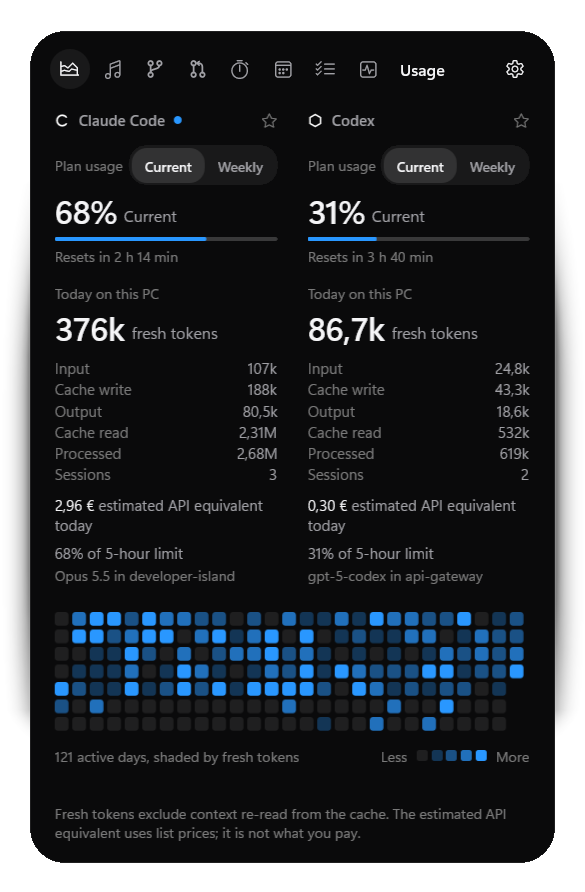
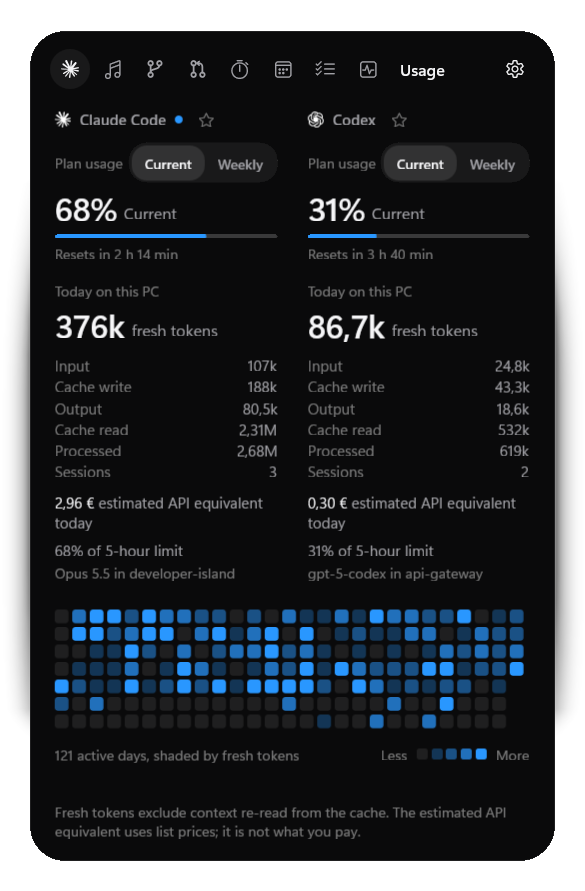
docs: document iteration 4 behavior, privacy marks and limits
State priority and the content/display split, camera and microphone
detection, width-stable compact values, hardware levels, Claude plan
usage being terminal-only, and why fan RPM is unavailable here.

diff --git a/README.md b/README.md
@@ -21,16 +21,17 @@ Developer Island is a small capsule at the top of your screen. It shows your AI 
   - A **live activity** (medium state) appears for song changes, focus sessions, AI events and upcoming meetings, or while you hover.
   - The **expanded** island opens on click.
 - **Spring motion from the anchor.** The capsule morphs on the GPU compositor and grows away from the edge it rests on. Every animation can be interrupted and respects Windows "Animation effects".
-- **Your module, in the capsule.** Star any module in the expanded island and the compact island features it: "Claude 68% · €2.96", the song, the focus countdown, "CPU 38% · 54°", "14:30 Robotics". Several favorites take turns every 7 seconds; without favorites the module you opened last is shown. Time-critical signals (focus, next event, system alert, failing CI) stay in front.
+- **Your module, in the capsule.** Star any module in the expanded island and the compact island features it: "Claude 1.12M · 72%", the song, the focus countdown, "CPU 38% · 54°", "14:30 Robotics". Several favorites take turns every 7 seconds; without favorites the module you opened last is shown, and hovering or opening the island shows that module too (never a fixed default). Time-critical signals (focus, next event, system alert, failing CI) stay in front. Ticking values keep their width ("CPU 9%" and "CPU 100%" take the same room), so the capsule does not jitter; long song titles end in an ellipsis.
+- **Camera and microphone.** While any app uses the microphone or the camera, a small orange microphone or green camera mark appears in every state: compact, live activity, expanded and the notch. It is a global signal, not a module, and never opens the island.
 - **Hover that behaves.** A peek opens after a short, deliberate hover (about 280 ms). Hover is judged against the visible capsule, so it never sticks. A capsule that just grew under a resting mouse does not take your next click, and any click outside the expanded island closes it.
-- **Auto-hide in apps.** A top-center island covers tabs and title bars. While an app you list is in front (Chrome, Edge and Firefox by default, or any app you add), the island retracts into a small notch in the screen edge (48 × 5 px). Hover it for 450 ms or click it to open. Choose per app, hide completely instead, or retract only while the app is maximized.
+- **Auto-hide in apps.** A top-center island covers tabs and title bars. While an app you list is in front (Chrome, Edge and Firefox by default, or any app you add), the island retracts into a small notch in the screen edge (48 × 5 px). Hover it for 450 ms or click it to open. Choose per app, hide completely instead, or retract only while the app is maximized. This works the same whatever the island shows (Claude, Codex, Music, Focus, System, Calendar, or the open island). While a camera or microphone is in use, "hide completely" keeps the notch instead (one fixed, slightly taller size) so the mark stays visible.
 - **Anywhere you want it.** It sits at Top Center by default. There are five more anchors, or you can drag it anywhere; near an anchor it snaps into place. The monitor, anchor and offset are saved, and the island falls back to the primary monitor when that display is disconnected.
 - **Out of the way.** The window region follows the capsule, leaving the rest of the desktop clickable. Hovering or dragging does not activate the island. It steps aside while a fullscreen app is on its monitor.
 - **Keyboard.** **Ctrl + Alt + Space** opens or closes the island from anywhere; three other combinations are available if another app already uses it. Esc closes the island, and focus returns to where you were. Tab and the arrow keys move through the expanded view.
 - **Tray and autostart.** The notification-area menu offers Show, Hide, Start Focus, New Task, Settings and Quit. Start with Windows is a native per-user setting, with no scripts.
 
 <p align="center">
-  <img src="docs/assets/compact-featured-claude.png" alt="Compact island featuring Claude: plan usage and today's estimated API equivalent" width="440">
+  <img src="docs/assets/compact-featured-claude.png" alt="Compact island featuring Claude: today's fresh tokens and plan usage" width="440">
   <br>
   <img src="docs/assets/notch.png" alt="The notch: a small dark tab in the top screen edge" width="120">
 </p>
@@ -58,11 +59,11 @@ Tokens are counted the way the providers bill them:
 
 Each provider shows its **plan usage** first, when it is known:
 
-- **Claude Code:** the current (5-hour) and weekly (7-day) windows with their reset times, as Claude Code reports them to its status line. Connect it once in Settings, Modules, "Claude plan usage": Developer Island becomes Claude Code's status line command, receives only those two percentages and reset times, shows nothing in the terminal, and leaves an existing status line of yours alone. Plan usage exists for Claude subscriptions only.
+- **Claude Code:** the current (5-hour) and weekly (7-day) windows with their reset times, as Claude Code reports them to its status line. Connect it once in Settings, Modules, "Claude plan usage": Developer Island becomes Claude Code's status line command, receives only those two percentages and reset times, shows nothing in the terminal, and leaves an existing status line of yours alone. Plan usage exists for Claude subscriptions only. Claude Code runs its status line only in terminal sessions, after a reply; the VS Code extension does not run it. Settings therefore tells "connected" apart from "receiving plan usage", and the island shows when the last figure was measured.
 - **Codex:** the 5-hour and weekly windows from its own logs.
 - A **Current / Weekly** switch picks the window. Without data the block says "Unavailable" and why. Percentages are never computed from token counts.
 
-Below it, **Today on this PC** keeps the full local breakdown. The compact island shows plan usage when known, otherwise **fresh** tokens, plus today's estimated API equivalent; the expanded view shows the full breakdown, and a tooltip on the figure lists every exact count. Cache reads repeat the whole conversation context on every turn, so in long agent sessions they are often 80–90 % of processed tokens; counting them as "usage" made earlier numbers look inflated. The usage graph is shaded by fresh tokens too.
+Below it, **Today on this PC** keeps the full local breakdown. The compact island shows today's **fresh** tokens and the plan percentage when known ("Claude 1.12M · 72%", or "Claude 1.12M tokens"); the estimated API equivalent appears only in the expanded view. The expanded view shows the full breakdown, and a tooltip on the figure lists every exact count. Hovering a day in the usage graph shows a small tooltip with its date, fresh tokens, sessions and API equivalent. Cache reads repeat the whole conversation context on every turn, so in long agent sessions they are often 80–90 % of processed tokens; counting them as "usage" made earlier numbers look inflated. The usage graph is shaded by fresh tokens too.
 
 The **estimated API equivalent today** in euros prices every category at public list prices, including cache writes (1.25× or 2× input) and cache reads (0.1× input unless listed). If you use a subscription, it is not what you pay. Models without a known list price are reported as "partly priced" instead of being guessed. Codex also shows its latest primary rate-limit usage (usually a 5-hour window), with a live activity at 50, 75 and 90 %.
 
@@ -112,10 +113,10 @@ A small local to-do list. Type and press Enter to add a task; click the circle t
 ### System
 
 <p align="center">
-  <img src="docs/assets/expanded-system.png" alt="System module: CPU, memory and GPU with 60-second graphs, battery, a storage temperature and a fan" width="480">
+  <img src="docs/assets/expanded-system.png" alt="System module (demo data): CPU, memory and GPU with 60-second graphs colored by load, battery, a storage temperature and a fan" width="480">
 </p>
 
-CPU, memory, GPU and battery, each with its last 60 seconds as a quiet graph, plus the temperatures and fans this device exposes (CPU and GPU temperatures in their tiles, storage, board and ACPI thermal zones and fan speeds as rows below). Hardware that does not exist, or that Windows does not expose without administrator rights, is not shown at all; the tiles re-flow. Readings come from Windows and [LibreHardwareMonitor](https://github.com/LibreHardwareMonitor/LibreHardwareMonitor), read-only. Manual fan control is not offered: no supported interface guarantees that fans return to firmware control if the app crashes. Run `DeveloperIsland.exe --system-report` to see what your device exposes.
+CPU, memory, GPU and battery, each with its last 60 seconds as a quiet graph (green, orange or red by load: CPU and GPU from 60 % and 85 %, memory from 75 % and 90 %, averaged over five seconds), plus the temperatures and fans this device exposes (CPU and GPU temperatures in their tiles, storage, board and ACPI thermal zones and fan speeds as rows below; a temperature turns orange or red only above its own threshold, for example CPU 85 / 95 °C, SSD 60 / 70 °C). Fan speeds appear only when the hardware reports them: many laptops, including the development machine, expose no fan RPM to Windows applications, and no value is ever estimated. Hardware that does not exist, or that Windows does not expose without administrator rights, is not shown at all; the tiles re-flow. Readings come from Windows and [LibreHardwareMonitor](https://github.com/LibreHardwareMonitor/LibreHardwareMonitor), read-only. Manual fan control is not offered: no supported interface guarantees that fans return to firmware control if the app crashes. Run `DeveloperIsland.exe --system-report` to see what your device exposes.
 
 The compact island speaks up only when something needs attention: a battery at 20 % or less that is not charging, or a CPU busy above 85 % for 15 seconds. Featured, it shows "CPU 38% · 54°" (or GPU or memory, whatever exists).
 
@@ -143,6 +144,7 @@ Changes apply immediately.
 - The app reads local JSONL files that can also contain conversation content, but extracts only usage and session metadata: token counts, model, timestamps, session IDs and the working directory. It does not retain, display, log or upload prompt, message or code content.
 - The local database (`%LOCALAPPDATA%\DeveloperIsland\usage.db`) contains token counts, model names, timestamps, session IDs, project folder names, daily totals and focus sessions.
 - `settings.json` holds your settings, including repository paths, favorites and the auto-hide app list; `tasks.json` holds your tasks; `ui-state.json` remembers the module you opened last. Private calendar links are kept in Windows Credential Manager and appear in settings only as "Google Calendar" or similar. Calendar event titles are kept in memory only.
+- Camera and microphone marks read Windows' own record of which apps use those devices (the capability consent store in the registry, as Windows' privacy indicator does). Only "in use or not" is kept; app names are never stored, shown or logged, and nothing is recorded.
 - `claude-plan.json` holds the last Claude plan percentages and reset times that Claude Code handed over, nothing else from its status line input (no paths, model, cost or session).
 - Logs (`%LOCALAPPDATA%\DeveloperIsland\logs`) contain app events and error types, never content, repository names, task titles, event titles or calendar links. They are kept for 7 days.
 - The API equivalent uses a static price catalog and exchange rate. You can adjust both in `%LOCALAPPDATA%\DeveloperIsland\pricing.json`, for example:
@@ -267,7 +269,7 @@ Data flows one way: **Provider, then State, then ViewModel, then View.** Provide
 - Code-signed installer, a winget package and in-app update notifications
 - Account-based calendars (Outlook, Google) through the calendar provider interface
 - More AI tools through the provider interface (Gemini CLI, GitHub Copilot usage)
-- Opt-in plan-limit percentages for Claude Code, if they become available locally
+- Claude plan usage from the VS Code extension, if Claude Code offers a status line there
 - A separate layout per display, and ARM64 release builds
 
 ## Acknowledgements
@@ -278,4 +280,4 @@ Design principles:
 - [Taste Skill](https://github.com/Leonxlnx/taste-skill)
 - [Vercel Web Interface Guidelines](https://github.com/vercel-labs/web-interface-guidelines)
 
-Icons are Segoe Fluent Icons, plus drawn Git and pull-request marks. Claude and Codex are shown with simple generic marks (an open "C" ring and a hexagon), not their logos. Hardware sensors use [LibreHardwareMonitor](https://github.com/LibreHardwareMonitor/LibreHardwareMonitor) (MPL-2.0). Built with the Windows App SDK and WinUI 3.
+Icons are Segoe Fluent Icons, plus drawn Git and pull-request marks. Claude Code and Codex are shown with the Claude and OpenAI marks (paths from [Simple Icons](https://simpleicons.org), CC0), drawn monochrome. Claude is a trademark of Anthropic and OpenAI of OpenAI; Developer Island is not affiliated with or endorsed by either. Hardware sensors use [LibreHardwareMonitor](https://github.com/LibreHardwareMonitor/LibreHardwareMonitor) (MPL-2.0). Built with the Windows App SDK and WinUI 3.

diff --git a/docs/STATUS.md b/docs/STATUS.md
@@ -6,20 +6,23 @@ What was verified, how, and what is still open. Updated 2026-10-01.
 
 | Area | How |
 |---|---|
-| Unit and integration tests | 294 tests pass (`dotnet test`), including a real `git` repository, a Windows Credential Manager round trip, ICS recurrence across daylight saving and the island state machine's transitions. |
+| Unit and integration tests | 356 tests pass (`dotnet test`), including a real `git` repository, a Windows Credential Manager round trip, ICS recurrence across daylight saving and the island state machine's transitions. |
 | Release build | `tools/build-release.ps1` builds tests, publish, portable zip and installer in a shell whose PATH has no .NET 10 SDK (the script finds it). |
-| Every island state | Rendered offscreen with `--demo --snapshot` (35 renders) and compared with the previous build: compact, peek, activities, notch, each expanded module, empty and error states, each featured module, favorite rotation, every Settings page. |
+| Every island state | Rendered offscreen with `--demo --snapshot` (41 renders) and compared with the previous build: compact, peek, activities, notch, each expanded module, the usage-graph tooltip, empty and error states, each featured module, favorite rotation, camera and microphone marks in compact, notch, activity and expanded, every Settings page. |
+| Camera and microphone | `--system-report` reads the consent store on this machine (both "not in use" at the time). The in-use rule and the island behavior (marks in every state, notch instead of hide, never opening) are covered by tests. |
 | Claude plan bridge | `--claude-statusline` fed with a sample in the documented format: exit 0, no output, only percentages and reset times stored (no path, model, cost or session). |
 | Hardware detection | `--system-report` on a Lenovo laptop without admin rights: CPU, memory, Intel GPU load, battery and two ACPI thermal zones detected; no CPU temperature, no fans, so those are hidden. |
-| Auto-hide | Earlier iteration: Chrome maximized in front retracted the island live; foreground changes are now debounced. |
+| Auto-hide | Earlier iteration: Chrome maximized in front retracted the island live; foreground changes are now debounced. One rule for every module: tests cover Claude, Codex, Music, Focus, System, Calendar and the open island with Chrome and VS Code in front. |
 | Performance | See [PERFORMANCE.md](PERFORMANCE.md). |
 
 ## Not verified on real hardware or accounts
 
-- Claude plan usage end to end with a Claude subscription: the status line format comes from Claude Code's built-in documentation and the bridge is tested with a sample, but no live session was connected during development (connecting edits the user's Claude Code settings).
+- Claude plan usage end to end with a Claude subscription in a terminal session. On the development machine the bridge is connected, but Claude Code was used through the VS Code extension, which does not run status lines, so no plan data arrived (Settings now says so instead of only "Connected").
+- Camera and microphone marks with a device actually in use (requires starting a call or recording; the change notification and the in-use rule are implemented and tested separately).
 - GitHub with the GitHub CLI signed in (only the JSON parsing is tested; the CLI is not installed on the development machine).
 - A live calendar link (parsing and storage are tested with samples).
 - GPU temperatures, storage temperatures and fans (the development machine exposes none without admin rights).
+- Fan RPM is not available on the development machine (Lenovo 21KH): LibreHardwareMonitor finds no fan or controller sensors (the Lenovo board "LNVNB161216" has no supported embedded controller or Super I/O), Windows exposes the ACPI fan device without a speed (`Win32_Fan` is empty, no fan performance counter), and Lenovo's WMI offers only BIOS settings. The fan row stays hidden; no value is estimated.
 - Hover and click timing by hand: input was never simulated; behavior is covered by state machine tests.
 
 ## Known limitations
@@ -27,6 +30,7 @@ What was verified, how, and what is still open. Updated 2026-10-01.
 - Manual fan control is not offered: no supported interface guarantees that fans return to firmware control if the app crashes or is killed. Monitoring only.
 - CPU package temperatures need LibreHardwareMonitor's driver and administrator rights; without them the CPU tile shows its load only.
 - ACPI thermal zones are real sensors, but Windows does not say what they measure, so they are labelled "Thermal zone" and not attributed to the CPU.
-- Plan usage updates when Claude Code sends a status line update (after replies), not on its own; after a window resets, the island shows no percentage until the next update.
+- Plan usage updates when Claude Code sends a status line update (after replies in a terminal session), not on its own and not from the VS Code extension; after a window resets, the island shows no percentage until the next update.
 - When Claude Code already has a status line, Developer Island does not replace it; plan usage then needs a manual pipe into `DeveloperIsland.exe --claude-statusline`.
+- The camera and microphone marks disappear while the island is hidden from the tray or for a fullscreen app (both are hides you asked for); Smart Auto-Hide keeps the notch instead.
 - One placement is saved, not a layout per display. ARM64, Windows 10 and clean-machine installation still need independent validation.

diff --git a/docs/ARCHITECTURE.md b/docs/ARCHITECTURE.md
@@ -114,13 +114,32 @@ Every module follows **Provider, then State, then ViewModel, then View**, with o
 
 `HardwareCapabilities` is derived from the samples themselves, so a component that does not exist simply never appears. Manual fan control is gated by `FanControlCapability`, which requires a crash-safe fallback to firmware control; no supported interface offers that, so the island monitors only. `DeveloperIsland.exe --system-report` prints what a device exposes.
 
+## State, content and global signals
+
+Four things are kept apart:
+
+| Concern | Owner | Decides |
+|---|---|---|
+| Display state | `IslandStateMachine` | Hidden, Retracted, Compact, Activity, Expanded (plus the dragging flag) |
+| Content | `CompactSelector`, `IslandContent` | Which module the capsule, the peek and the opened island show |
+| Foreground app | `ForegroundWatcher`, `SmartHidePolicy` | The resting mode (Compact, Retracted or Hidden) |
+| Privacy | `PrivacyWatcher`, `PrivacyIndicator` | Whether the camera and microphone marks show |
+
+The display priority is Dragging > Auto-hide or hidden > explicitly expanded > hover peek > compact. An auto-hide app in front retracts the island at once from any state, even when expanded; a drag finishes first. Favorites and the last active module only choose content: `IslandContent.ChoosePeek` and `ChooseTabOnOpen` show the featured module (favorite, else the one opened last) on hover and on open, never a fixed default. The privacy marks are visible in every state except a hide the user asked for (tray, fullscreen); with a device in use, `SmartHidePolicy` turns "hide" into the notch.
+
 ## Compact island and favorites
 
 `CompactSelector` picks the featured module: one favorite is shown, several rotate every 7 s (skipping those with nothing to say), otherwise the module opened last (`ui-state.json`), otherwise the classic summary. The rotation timer runs only while the compact capsule is on screen. Time-critical chips (focus, next event, system alert, failing CI) stay unless the featured module already shows them.
 
+Ticking values sit in a `StableText`: an invisible copy of the widest form (`CompactWidth.Reserve`: "CPU 9%" reserves "CPU 000%", "376k" and "1.12M" reserve "000.00M") holds the slot and tabular figures make every digit equally wide, so the capsule changes width only when its content changes kind.
+
+## Camera and microphone
+
+Windows records each app's device use under `HKCU\Software\Microsoft\Windows\CurrentVersion\CapabilityAccessManager\ConsentStore\{microphone|webcam}` (packaged apps directly, desktop apps under `NonPackaged`): a `LastUsedTimeStart` without a `LastUsedTimeStop` means in use. `PrivacyWatcher` arms `RegNotifyChangeKeyValue` on both keys (subtree, names and values), reads them once, and waits; a change re-arms and re-reads after 120 ms. One background thread, no polling, no app names kept or logged. `ConsentStore` and `PrivacyIndicator` (Core) hold the testable rules.
+
 ## Plan usage
 
-Claude plan usage comes from Claude Code's documented status line input (`rate_limits.five_hour` and `seven_day`: `used_percentage`, `resets_at`). `ClaudeStatusLineSetup` adds Developer Island as the `statusLine` command in Claude Code's `settings.json` on request (backup first, never replacing a status line the user already has). `DeveloperIsland.exe --claude-statusline` runs before any UI, keeps only those numbers in `claude-plan.json`, prints nothing and always exits 0. `PlanUsageService` follows that file with a watcher. Codex's 5-hour and weekly windows come from its own rollout records. A window that has reset no longer shows its percentage.
+Claude plan usage comes from Claude Code's documented status line input (`rate_limits.five_hour` and `seven_day`: `used_percentage`, `resets_at`). `ClaudeStatusLineSetup` adds Developer Island as the `statusLine` command in Claude Code's `settings.json` on request (backup first, never replacing a status line the user already has). `DeveloperIsland.exe --claude-statusline` runs before any UI, keeps only those numbers in `claude-plan.json`, prints nothing and always exits 0. `PlanUsageService` follows that file with a watcher. Codex's 5-hour and weekly windows come from its own rollout records. A window that has reset no longer shows its percentage. Claude Code runs status lines only in its terminal interface, so `PlanStatus` separates the link (connected or not) from the data (waiting, receiving, stale after an hour), and Settings and the Usage panel say which one applies.
 
 ## Auto-hide in apps
 

diff --git a/docs/design/DESIGN-AUDIT.md b/docs/design/DESIGN-AUDIT.md
@@ -1,5 +1,22 @@
 # Design audit
 
+## Iteration 4: behavior fixes, privacy marks, levels (2026-10-01)
+
+Checked against [DESIGN-PRINCIPLES.md](DESIGN-PRINCIPLES.md) with offscreen renders (`--demo --snapshot`, 41 renders), before and after.
+
+| Area | Result |
+|---|---|
+| Preservation | Every earlier render still exists; the only intended visual changes are listed here. |
+| Brand marks | Claude Code shows the Claude mark and Codex the OpenAI mark (Simple Icons paths, monochrome, in the island's foreground color); the Usage tab follows the active provider. Nothing Gemini-like remains. |
+| Favorites | The provider star sits on the header line, right after the name ("Claude Code ☆"), with the same 32 DIP hit area as the island header star. |
+| Compact | No money in the capsule ("Claude 1.12M · 72%"); values reserve their widest form, so the capsule does not jitter. |
+| Tooltip | The usage graph's tooltip is a small dark floating capsule with a hairline and a soft shadow, above the cell (never under the pointer), fading in once and following from cell to cell without blinking. |
+| Color | Hardware levels use green, orange and red only on a graph line, a thin bar or a temperature; temperatures stay neutral until their own threshold. Orange microphone and green camera follow the convention people know from phones. |
+| Notch | One fixed size at rest and one fixed, slightly taller size while a camera or microphone is in use, whatever is in use. |
+| Icons | Microphone and camera are Segoe Fluent vector glyphs, no emoji. In the expanded island they sit centered at the top edge, so the header keeps its room. |
+
+Remaining: Narrator pass of the privacy marks and the tooltip, and seeing the marks with a real call.
+
 ## Iteration 3: favorites, plan usage, system history (2026-10-01)
 
 Checked against [DESIGN-PRINCIPLES.md](DESIGN-PRINCIPLES.md) using offscreen renders of every state (`--demo --snapshot`), before and after, side by side.

diff --git a/docs/PERFORMANCE.md b/docs/PERFORMANCE.md
@@ -45,6 +45,8 @@ Measured with `Get-Process` over the stated window, after the startup scan.
   - One-shot timers handle midnight and the active-flag timeout.
   - The focus timer ticks only while a session runs.
   - The media position ticks only while the expanded Music tab is visible and playing.
+- **Camera and microphone without polling.** One background thread waits on two registry change notifications and reads the consent store only after Windows signals a change.
+- **No re-layout on ticks.** Compact values reserve their widest form, so a ticking timer or CPU figure no longer resizes and re-morphs the capsule.
 - **No rendering loop.** All motion is composition animation (springs, key frames and expressions). Nothing redraws while idle, and there are no perpetual animations.
 - **Incremental work.**
   - File cursors mean only appended bytes are parsed.
